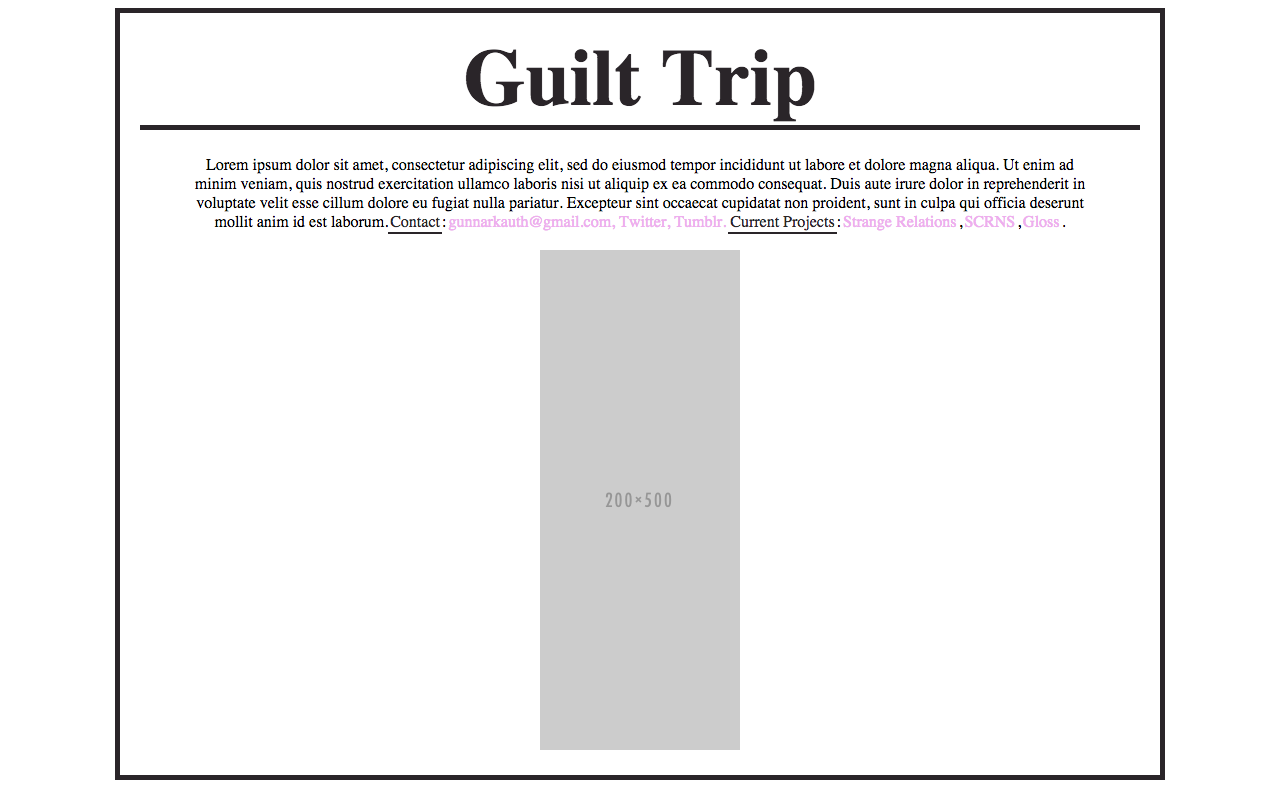
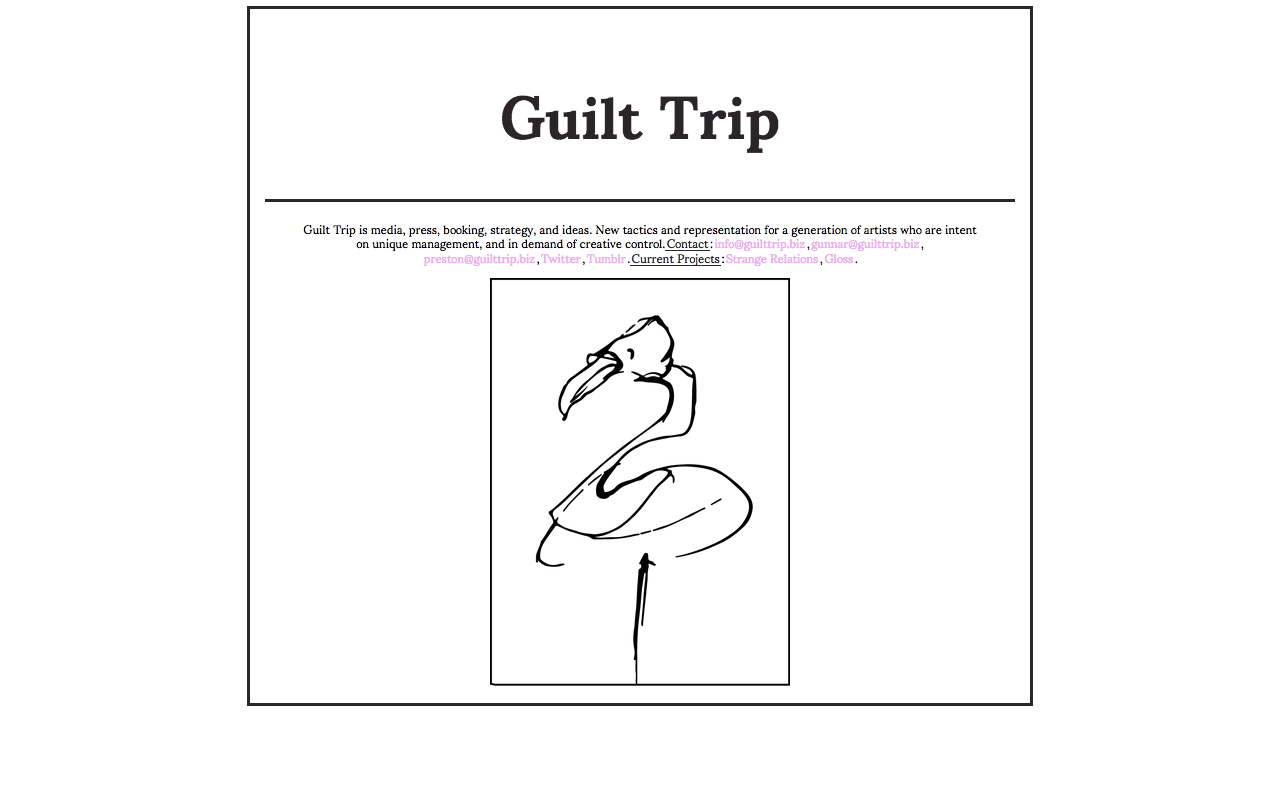
fix typo, update GT images

diff --git a/index.html b/index.html
@@ -1,4 +1,4 @@
-<!DOCTYPE html><html></html><head><title>Will Kent-Daggett</title><link rel="stylesheet" type="text/css" href="assets/build/style/style.min.css"><link rel="stylesheet" href="assets/build/bower/font-awesome/css/font-awesome.min.css"><meta name="author" content="Will Kent-Daggett"><meta name="description" content="Will Kent-Daggett is a web developer working in Los Angeles"><meta name="keywords" content="will kent-daggett, will kent daggett"></head><body><div class="container"><div id="header"><h1><a href="/">Will Kent-Daggett</a></h1><ul><span><i class="fa fa-envelope-o"></i></span><li><a href="mailto:hi@wtkd.info"><span>hi@wtkd.info</span></a></li><span><i class="fa fa-map-marker"></i></span><li><span>Los Angeles, CA</span></li><span><i class="fa fa-github"></i></span><li><a target="_blank" href="https:/github.com/wkentdag">@wkentdag</a></li></ul><p id="about">I'm a full-stack developer with over two years of experience crafting responsive websites, creating database schemas, and designing scalable APIs, both as a freelancer for independent clients and as part of a development team. I also have several years' experience mining large data sets to generate programmatic art and music. I believe that beautiful design is predicated by elegant code, and vice versa; I am looking for jobs (freelance or full-time) that allow me to work at that point of intersection.</p></div><div id="projects"><h1><a href="#projects">Projects &#8623; </a></h1><div class="project"><h2>WMCN.fm<span> <a href="http://wmcn.fm" target="_blank">&#10548;</a></span></h2><div class="images"><table class="images"><tr><td><a href="images/wmcn/landing.png" target="_blank"><img src="images/wmcn/landing.png"></a></td><td><a href="images/wmcn/edit.png" target="_blank"><img src="images/wmcn/edit.png"></a></td><td><a href="images/wmcn/apps.png" target="_blank"><img src="images/wmcn/apps.png"></a></td><td><a href="images/wmcn/apply.png" target="_blank"><img src="images/wmcn/apply.png"></a></td><td><a href="images/wmcn/ios.png" target="_blank"><img src="images/wmcn/ios.png"></a></td><td><a href="images/wmcn/about.png" target="_blank"><img src="images/wmcn/about.png"></a></td><td><a href="images/wmcn/schedule.png" target="_blank"><img src="images/wmcn/schedule.png"></a></td></tr></table></div><p>Webapp for Macalester’s radio station. Allows visitors to listen worldwide, browse playlist archives and the current show schedule, and apply for a new show. Features an admin panel for approving show applications, scheduling shows, and managing user privileges. Also features a custom CMS for DJs to post show playlists. Built with Node.js and Express.<span> <a href="https://github.com/wmcn-fm/wmcn.fm" target="_blank">View on Github &#8620;</a></span></p></div><div class="project"><h2>WMCN API<span> <a href="http://api.wmcn.fm" target="_blank">&#10548;</a></span></h2><p>Standalone API layer for WMCN's PostgreSQL database. Built with Node.js and Express.<span> <a href="https://github.com/wmcn-fm/wmcn-api" target="_blank">View on Github &#8620;</a></span></p></div><div class="project"><h2>Will Matsuda<span> <a href="http://williammatsuda.com" target="_blank">&#10548;</a></span></h2><div class="images"><table class="images"><tr><td><a href="images/matsuda/1.png" target="_blank"><img src="images/matsuda/1.png"></a></td><td><a href="images/matsuda/ios.png" target="_blank"><img src="images/matsuda/ios.png"></a></td><td><a href="images/matsuda/2.png" target="_blank"><img src="images/matsuda/2.png"></a></td></tr></table></div><p>Portfolio website that uses the Tumblr API to download and sort photos according to tags specified through a custom admin panel. Built with Node.js and Express.<span> <a href="https://github.com/wkentdag/matsuda" target="_blank">View on Github &#8620;</a></span></p></div><div class="project"><h2>Guilt Trip</h2><div class="images"><table class="images"><tr><td><a href="images/guilt-trip/landing.png" target="_blank"><img src="images/guilt-trip/landing.png"></a></td><td><a href="images/guilt-trip/sr.png" target="_blank"><img src="images/guilt-trip/sr.png"></a></td></tr></table></div><p>Simple static website for Minneapolis-based booking and management company.<span> <a href="https://github.com/wkentdag/guilt-trip" target="_blank">View on Github &#8620;</a></span></p></div><div class="project"><h2>Timelaps</h2><div class="images"><table class="images"><tr><td><a href="images/timelaps/installation1.jpg" target="_blank"><img src="images/timelaps/installation1.jpg"></a></td><td><a href="images/timelaps/flier.jpg" target="_blank"><img src="images/timelaps/flier.jpg"></a></td><td><a href="images/timelaps/max.png" target="_blank"><img src="images/timelaps/max.png"></a></td><td><a href="images/timelaps/flier_back.jpg" target="_blank"><img src="images/timelaps/flier_back.jpg"></a></td><td><a href="images/timelaps/installation2.jpg" target="_blank"><img src="images/timelaps/installation2.jpg"></a></td></tr></table></div><p>Sound installation that represents current weather conditions at Lake Superior, MN as ambient music. Comprised of a Python application that mines realtime weather data and a Max/MSP program to sonify the data. Awarded a Wallace Summer Research Grant, Summer 2014. Exhibited at Macalester College, Fall 2014.<span> <a href="https://soundcloud.com/willkentdaggett/singlechannel-test-003" target="_blank">Audio sample on Soundcloud &#8620;</a></span><span> <a href="https://github.com/wkentdag/timelaps" target="_blank">View on Github &#8620;</a></span></p></div><div class="project"><h2>Sup</h2><p>Privacy- and simplicity-oriented social network that allows users to temporarily share their current location to a subset of followers. Comprised of an API webserver and separate iOS client. Built with Node.js, Express, and Objecive-C. Developed during Software Design class at Macalester College, Spring 2014.<span> <a href="https://github.com/wkentdag/sup" target="_blank">View on Github &#8620;</a></span></p></div></div></div><script>(function(i,s,o,g,r,a,m){i['GoogleAnalyticsObject']=r;i[r]=i[r]||function(){
+<!DOCTYPE html><html></html><head><title>Will Kent-Daggett</title><link rel="stylesheet" type="text/css" href="assets/build/style/style.min.css"><link rel="stylesheet" href="assets/build/bower/font-awesome/css/font-awesome.min.css"><meta name="author" content="Will Kent-Daggett"><meta name="description" content="Will Kent-Daggett is a web developer working in Los Angeles"><meta name="keywords" content="will kent-daggett, will kent daggett"></head><body><div class="container"><div id="header"><h1><a href="/">Will Kent-Daggett</a></h1><ul><span><i class="fa fa-envelope-o"></i></span><li><a href="mailto:hi@wtkd.info"><span>hi@wtkd.info</span></a></li><span><i class="fa fa-map-marker"></i></span><li><span>Los Angeles, CA</span></li><span><i class="fa fa-github"></i></span><li><a target="_blank" href="https:/github.com/wkentdag">@wkentdag</a></li></ul><p id="about">I'm a full-stack developer with over two years of experience crafting responsive websites, creating database schemas, and designing scalable APIs, both as a freelancer for independent clients and as part of a development team. I also have several years' experience mining large data sets to generate programmatic art and music. I believe that beautiful design is predicated by elegant code, and vice versa; I am looking for jobs (freelance or full-time) that allow me to work at that point of intersection.</p></div><div id="projects"><h1><a href="#projects">Projects &#8623; </a></h1><div class="project"><h2>WMCN.fm<span> <a href="http://wmcn.fm" target="_blank">&#10548;</a></span></h2><div class="images"><table class="images"><tr><td><a href="images/wmcn/landing.png" target="_blank"><img src="images/wmcn/landing.png"></a></td><td><a href="images/wmcn/edit.png" target="_blank"><img src="images/wmcn/edit.png"></a></td><td><a href="images/wmcn/apps.png" target="_blank"><img src="images/wmcn/apps.png"></a></td><td><a href="images/wmcn/apply.png" target="_blank"><img src="images/wmcn/apply.png"></a></td><td><a href="images/wmcn/ios.png" target="_blank"><img src="images/wmcn/ios.png"></a></td><td><a href="images/wmcn/about.png" target="_blank"><img src="images/wmcn/about.png"></a></td><td><a href="images/wmcn/schedule.png" target="_blank"><img src="images/wmcn/schedule.png"></a></td></tr></table></div><p>Webapp for Macalester’s radio station. Allows visitors to listen worldwide, browse playlist archives and the current show schedule, and apply for a new show. Features an admin panel for approving show applications, scheduling shows, and managing user privileges. Also features a custom CMS for DJs to post show playlists. Built with Node.js and Express.<span> <a href="https://github.com/wmcn-fm/wmcn.fm" target="_blank">View on Github &#8620;</a></span></p></div><div class="project"><h2>WMCN API<span> <a href="http://api.wmcn.fm" target="_blank">&#10548;</a></span></h2><p>Standalone API layer for WMCN's PostgreSQL database. Built with Node.js and Express.<span> <a href="https://github.com/wmcn-fm/wmcn-api" target="_blank">View on Github &#8620;</a></span></p></div><div class="project"><h2>Will Matsuda<span> <a href="http://williammatsuda.com" target="_blank">&#10548;</a></span></h2><div class="images"><table class="images"><tr><td><a href="images/matsuda/1.png" target="_blank"><img src="images/matsuda/1.png"></a></td><td><a href="images/matsuda/ios.png" target="_blank"><img src="images/matsuda/ios.png"></a></td><td><a href="images/matsuda/2.png" target="_blank"><img src="images/matsuda/2.png"></a></td></tr></table></div><p>Portfolio website that uses the Tumblr API to download and sort photos according to tags specified through a custom admin panel. Built with Node.js and Express.<span> <a href="https://github.com/wkentdag/matsuda" target="_blank">View on Github &#8620;</a></span></p></div><div class="project"><h2>Guilt Trip</h2><div class="images"><table class="images"><tr><td><a href="images/guilt-trip/landing.png" target="_blank"><img src="images/guilt-trip/landing.png"></a></td><td><a href="images/guilt-trip/gloss.png" target="_blank"><img src="images/guilt-trip/gloss.png"></a></td></tr></table></div><p>Simple static website for Minneapolis-based booking and management company.<span> <a href="https://github.com/wkentdag/guilt-trip" target="_blank">View on Github &#8620;</a></span></p></div><div class="project"><h2>Timelaps</h2><div class="images"><table class="images"><tr><td><a href="images/timelaps/installation1.jpg" target="_blank"><img src="images/timelaps/installation1.jpg"></a></td><td><a href="images/timelaps/flier.jpg" target="_blank"><img src="images/timelaps/flier.jpg"></a></td><td><a href="images/timelaps/max.png" target="_blank"><img src="images/timelaps/max.png"></a></td><td><a href="images/timelaps/flier_back.jpg" target="_blank"><img src="images/timelaps/flier_back.jpg"></a></td><td><a href="images/timelaps/installation2.jpg" target="_blank"><img src="images/timelaps/installation2.jpg"></a></td></tr></table></div><p>Sound installation that represents current weather conditions at Lake Superior, MN as ambient music. Comprised of a Python application that mines realtime weather data and a Max/MSP program to sonify the data. Awarded a Wallace Summer Research Grant, Summer 2014. Exhibited at Macalester College, Fall 2014.<span> <a href="https://soundcloud.com/willkentdaggett/singlechannel-test-003" target="_blank">Audio sample on Soundcloud &#8620;</a></span><span> <a href="https://github.com/wkentdag/timelaps" target="_blank">View on Github &#8620;</a></span></p></div><div class="project"><h2>Sup</h2><p>Privacy- and simplicity-oriented social network that allows users to temporarily share their current location to a subset of followers. Comprised of an API webserver and separate iOS client. Built with Node.js, Express, and Objective-C. Developed during Software Design class at Macalester College, Spring 2014.<span> <a href="https://github.com/wkentdag/sup" target="_blank">View on Github &#8620;</a></span></p></div></div></div><script>(function(i,s,o,g,r,a,m){i['GoogleAnalyticsObject']=r;i[r]=i[r]||function(){
 (i[r].q=i[r].q||[]).push(arguments)},i[r].l=1*new Date();a=s.createElement(o),
 m=s.getElementsByTagName(o)[0];a.async=1;a.src=g;m.parentNode.insertBefore(a,m)
 })(window,document,'script','//www.google-analytics.com/analytics.js','ga');
